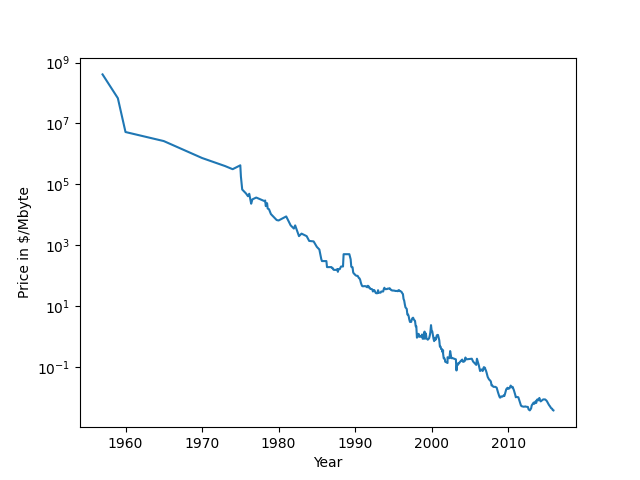
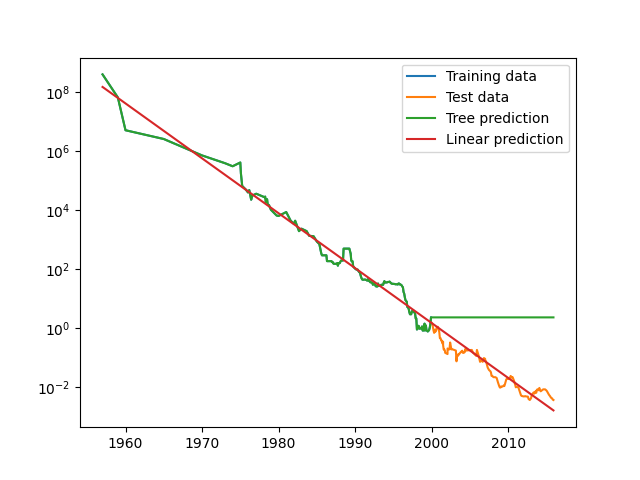
decision tree regressor

diff --git a/dtr/dtr.py b/dtr/dtr.py
@@ -1,14 +1,36 @@
 import os
 
 import mglearn.datasets
+import numpy as np
 import pandas as pd
 from matplotlib import pyplot as plt
+from sklearn.linear_model import LinearRegression
+from sklearn.tree import DecisionTreeRegressor
 
 
 def execute():
     ram_prices = pd.read_csv(os.path.join(mglearn.datasets.DATA_PATH, "ram_price.csv"))
+    data_train = ram_prices[ram_prices.date < 2000]
+    data_test = ram_prices[ram_prices.date >= 2000]
+
+    X_train = data_train.date[:, np.newaxis]
+    y_train = np.log(data_train.price)
+
+    tree = DecisionTreeRegressor().fit(X_train, y_train)
+    linear_reg = LinearRegression().fit(X_train, y_train)
+
+    X_all = ram_prices.date[:, np.newaxis]
+
+    pred_tree = tree.predict(X_all)
+    pred_lr = linear_reg.predict(X_all)
+
+    price_tree = np.exp(pred_tree)
+    price_lr = np.exp(pred_lr)
+
     fig = plt.figure()
-    plt.semilogy(ram_prices.date, ram_prices.price)
-    plt.xlabel("Year")
-    plt.ylabel("Price in $/Mbyte")
+    plt.semilogy(data_train.date, data_train.price, label="Training data")
+    plt.semilogy(data_test.date, data_test.price, label="Test data")
+    plt.semilogy(ram_prices.date, price_tree, label="Tree prediction")
+    plt.semilogy(ram_prices.date, price_lr, label="Linear prediction")
+    plt.legend()
     fig.savefig("dtr/dtr.png")
